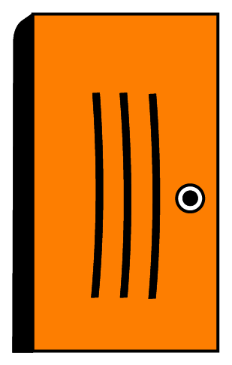
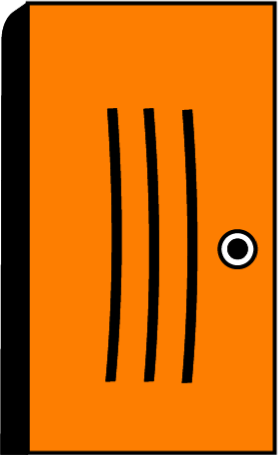
Use the client's illustrations and audio
- Baa's picture matches use the illustrated duck, door and cow instead of
  emoji; the door is a sharper export of the same drawing (Level 4 picks it
  up too). ExerciseOptionCard renders image options, emoji as fallback.
- Replace the placeholder ka / ta recordings with the new clips.
- Word Types: sound buttons on the يسبح and في rows.
- Baa form tabs: initial before medial (ب · بـ · ـبـ · ـب, right to left).

diff --git a/lib/data/content/lesson_baa.dart b/lib/data/content/lesson_baa.dart
@@ -67,8 +67,9 @@ const Lesson lessonBaa = Lesson(
       timerSeconds: 30,
       maxMoves: 10,
       // RTL row — index 0 is the rightmost tab, so the form being built leads
-      // and is the green one. The final form ـب is the leftmost tab.
-      formTabs: <String>['ب', 'ـبـ', 'بـ', 'ـب'],
+      // and is the green one; then initial, medial, and the final form ـب as
+      // the leftmost tab.
+      formTabs: <String>['ب', 'بـ', 'ـبـ', 'ـب'],
       activeFormIndex: 0,
       guides: <LetterGuide>[LetterGuide(GuideKind.baseline, row: 4)],
     ),
@@ -106,18 +107,48 @@ const Lesson lessonBaa = Lesson(
       meaning: 'Duck',
       audioFile: 'batta_duck.mp3',
       options: <ExerciseOption>[
-        ExerciseOption(emoji: '🦆', label: 'Duck', isCorrect: true),
-        ExerciseOption(emoji: '🚪', label: 'Door', isCorrect: false),
-        ExerciseOption(emoji: '🐄', label: 'Cow', isCorrect: false),
+        ExerciseOption(
+          imageAsset: 'illustrations/duck.png',
+          emoji: '🦆',
+          label: 'Duck',
+          isCorrect: true,
+        ),
+        ExerciseOption(
+          imageAsset: 'illustrations/door.png',
+          emoji: '🚪',
+          label: 'Door',
+          isCorrect: false,
+        ),
+        ExerciseOption(
+          imageAsset: 'illustrations/cow.png',
+          emoji: '🐄',
+          label: 'Cow',
+          isCorrect: false,
+        ),
       ],
     ),
     ListenChooseExercise(
       // باب — door.
       audioFile: 'bab_door.mp3',
       options: <ExerciseOption>[
-        ExerciseOption(emoji: '🚪', label: 'Door', isCorrect: true),
-        ExerciseOption(emoji: '🦆', label: 'Duck', isCorrect: false),
-        ExerciseOption(emoji: '🐄', label: 'Cow', isCorrect: false),
+        ExerciseOption(
+          imageAsset: 'illustrations/door.png',
+          emoji: '🚪',
+          label: 'Door',
+          isCorrect: true,
+        ),
+        ExerciseOption(
+          imageAsset: 'illustrations/duck.png',
+          emoji: '🦆',
+          label: 'Duck',
+          isCorrect: false,
+        ),
+        ExerciseOption(
+          imageAsset: 'illustrations/cow.png',
+          emoji: '🐄',
+          label: 'Cow',
+          isCorrect: false,
+        ),
         ExerciseOption(letter: 'ب', isCorrect: false),
       ],
     ),

diff --git a/lib/features/lesson/widgets/lesson_ui.dart b/lib/features/lesson/widgets/lesson_ui.dart
@@ -245,8 +245,8 @@ class CelebrationPop extends StatelessWidget {
   }
 }
 
-/// White option card showing LEGO bricks, a big emoji illustration or an
-/// Arabic letter, including the correct/wrong flash + shake states from
+/// White option card showing LEGO bricks, an illustration (or its emoji
+/// placeholder) or an Arabic letter, including the correct/wrong flash + shake states from
 /// [OptionTile].
 class ExerciseOptionCard extends StatelessWidget {
   const ExerciseOptionCard({
@@ -264,6 +264,25 @@ class ExerciseOptionCard extends StatelessWidget {
 
   @override
   Widget build(BuildContext context) {
+    final image = option.imageAsset;
+    if (image != null) {
+      return OptionTile(
+        status: status,
+        onTap: onTap,
+        padding: const EdgeInsets.all(12),
+        child: Center(
+          child: Image.asset(
+            'assets/images/$image',
+            fit: BoxFit.contain,
+            // Falls back to the emoji placeholder if the asset is missing.
+            errorBuilder: (_, _, _) => Text(
+              option.emoji ?? '',
+              style: TextStyle(fontSize: emojiSize, height: 1.25),
+            ),
+          ),
+        ),
+      );
+    }
     final Widget content = option.brickCount != null
         ? Wrap(
             spacing: 8,

diff --git a/lib/data/content/lesson_fatha.dart b/lib/data/content/lesson_fatha.dart
@@ -76,12 +76,12 @@ const Lesson lessonFatha = Lesson(
       heading: 'Learn',
       titleArabic: 'كَ',
       titleLatin: 'KAF+a = Ka',
-      audioFile: 'ka_fatha.m4a',
+      audioFile: 'ka_fatha.mp3',
       cardColor: LpColors.levelOrange,
     ),
     ChoiceExercise(
       heading: 'Choose the pronunciation',
-      prompt: ChoicePrompt(arabic: 'كَ', audioFile: 'ka_fatha.m4a'),
+      prompt: ChoicePrompt(arabic: 'كَ', audioFile: 'ka_fatha.mp3'),
       options: <ExerciseOption>[
         ExerciseOption(label: 'Ka', isCorrect: true),
         ExerciseOption(label: 'Ki', isCorrect: false),
@@ -104,7 +104,7 @@ const Lesson lessonFatha = Lesson(
       heading: 'Learn',
       titleArabic: 'تَ',
       titleLatin: 'TAA+a = Ta',
-      audioFile: 'ta_fatha.m4a',
+      audioFile: 'ta_fatha.mp3',
       cardColor: LpColors.levelOrange,
     ),
     PlaceDiacriticExercise(

diff --git a/lib/data/content/lesson_word_types.dart b/lib/data/content/lesson_word_types.dart
@@ -37,8 +37,16 @@ const Lesson lessonWordTypes = Lesson(
           gloss: '(Noun) = (Man)',
           audioFile: 'rajul_man.mp3',
         ),
-        TeachItem(arabic: 'فعل = يسبح', gloss: '(Verb) = (Swims)'),
-        TeachItem(arabic: 'حرف = في', gloss: '(Particle) = (In)'),
+        TeachItem(
+          arabic: 'فعل = يسبح',
+          gloss: '(Verb) = (Swims)',
+          audioFile: 'yasbah_swims.mp3',
+        ),
+        TeachItem(
+          arabic: 'حرف = في',
+          gloss: '(Particle) = (In)',
+          audioFile: 'fi_in.mp3',
+        ),
       ],
     ),
     // Tap all the nouns in the six-word grid (design 3).

diff --git a/lib/data/models/exercise.dart b/lib/data/models/exercise.dart
@@ -29,7 +29,8 @@ class LetterGuide {
 ///
 /// Exactly one of [brickCount] (that many real bricks), [emoji] (illustration
 /// placeholder), [imageAsset] (bundled illustration) or [letter] (Arabic
-/// letter card) should be set.
+/// letter card) should be set — except that an [emoji] may ride along with
+/// an [imageAsset] as its fallback.
 @immutable
 class ExerciseOption {
   const ExerciseOption({
